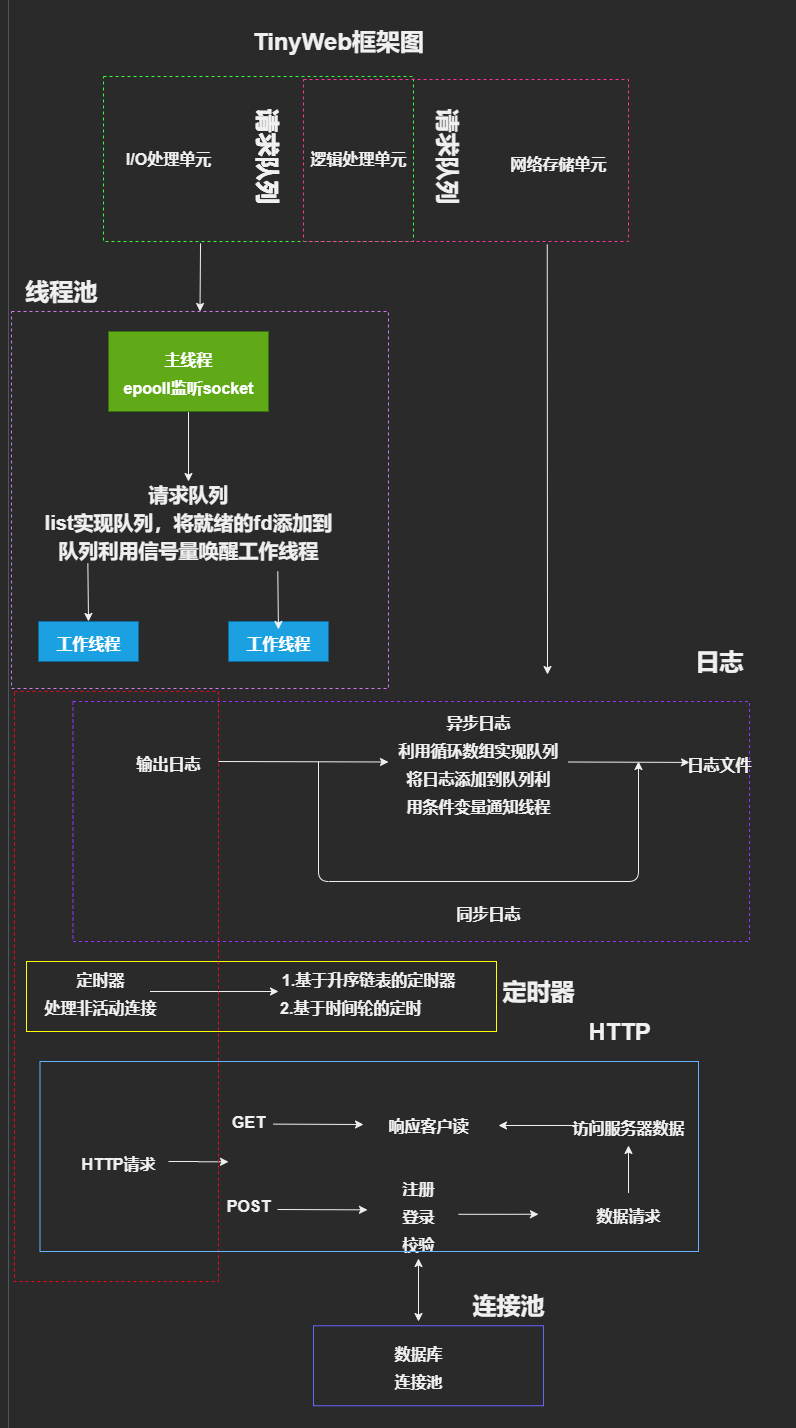
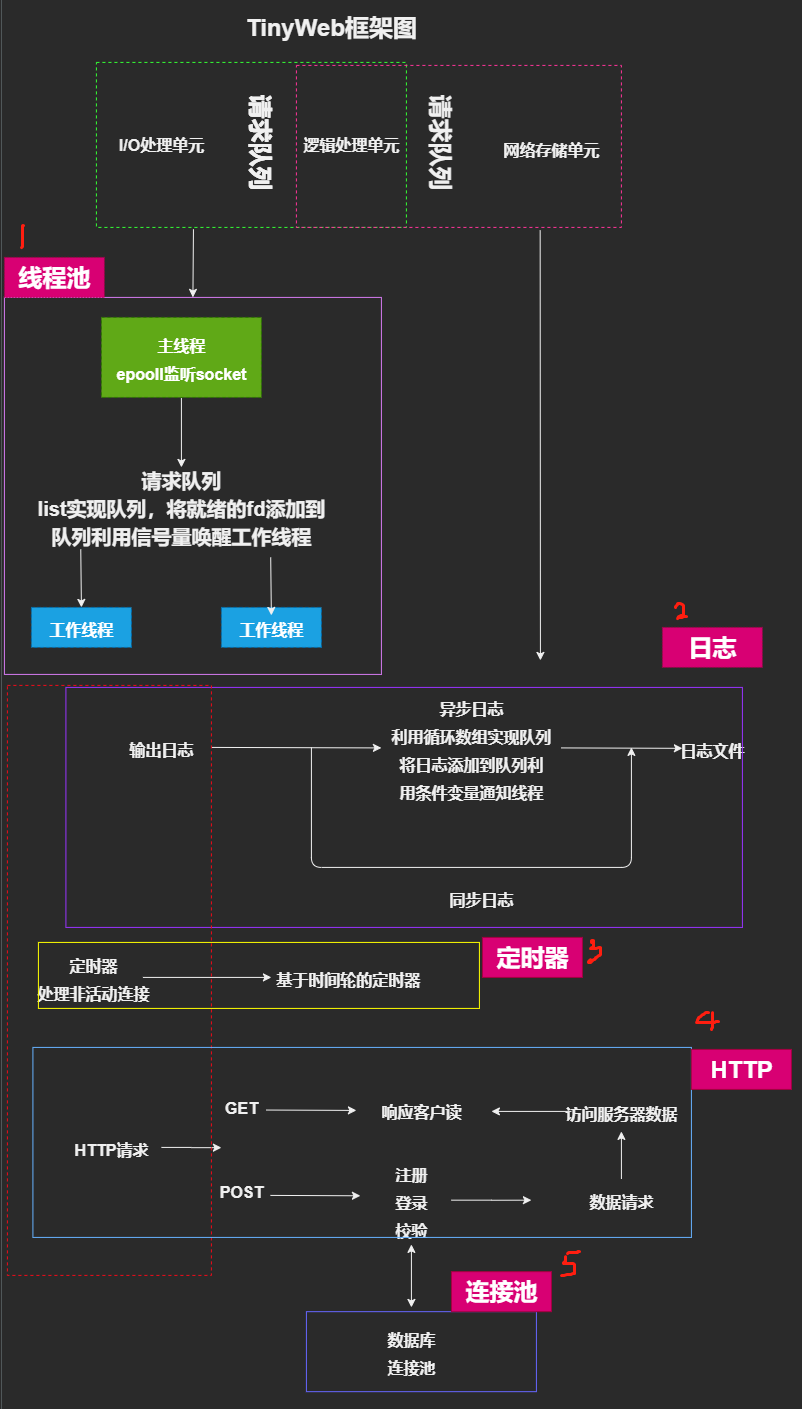
添加TinyWen框架图

diff --git a/readme.md b/readme.md
@@ -13,7 +13,7 @@ Linux下C++用来学习的Web服务器，结合之前的学习，搭建轻量级
 
 TinyWeb框架图
 ======================
-![框架图](./root/框架.PNG) 
+![框架图](./root/框架.png) 
 
 
 TinWeb测试
